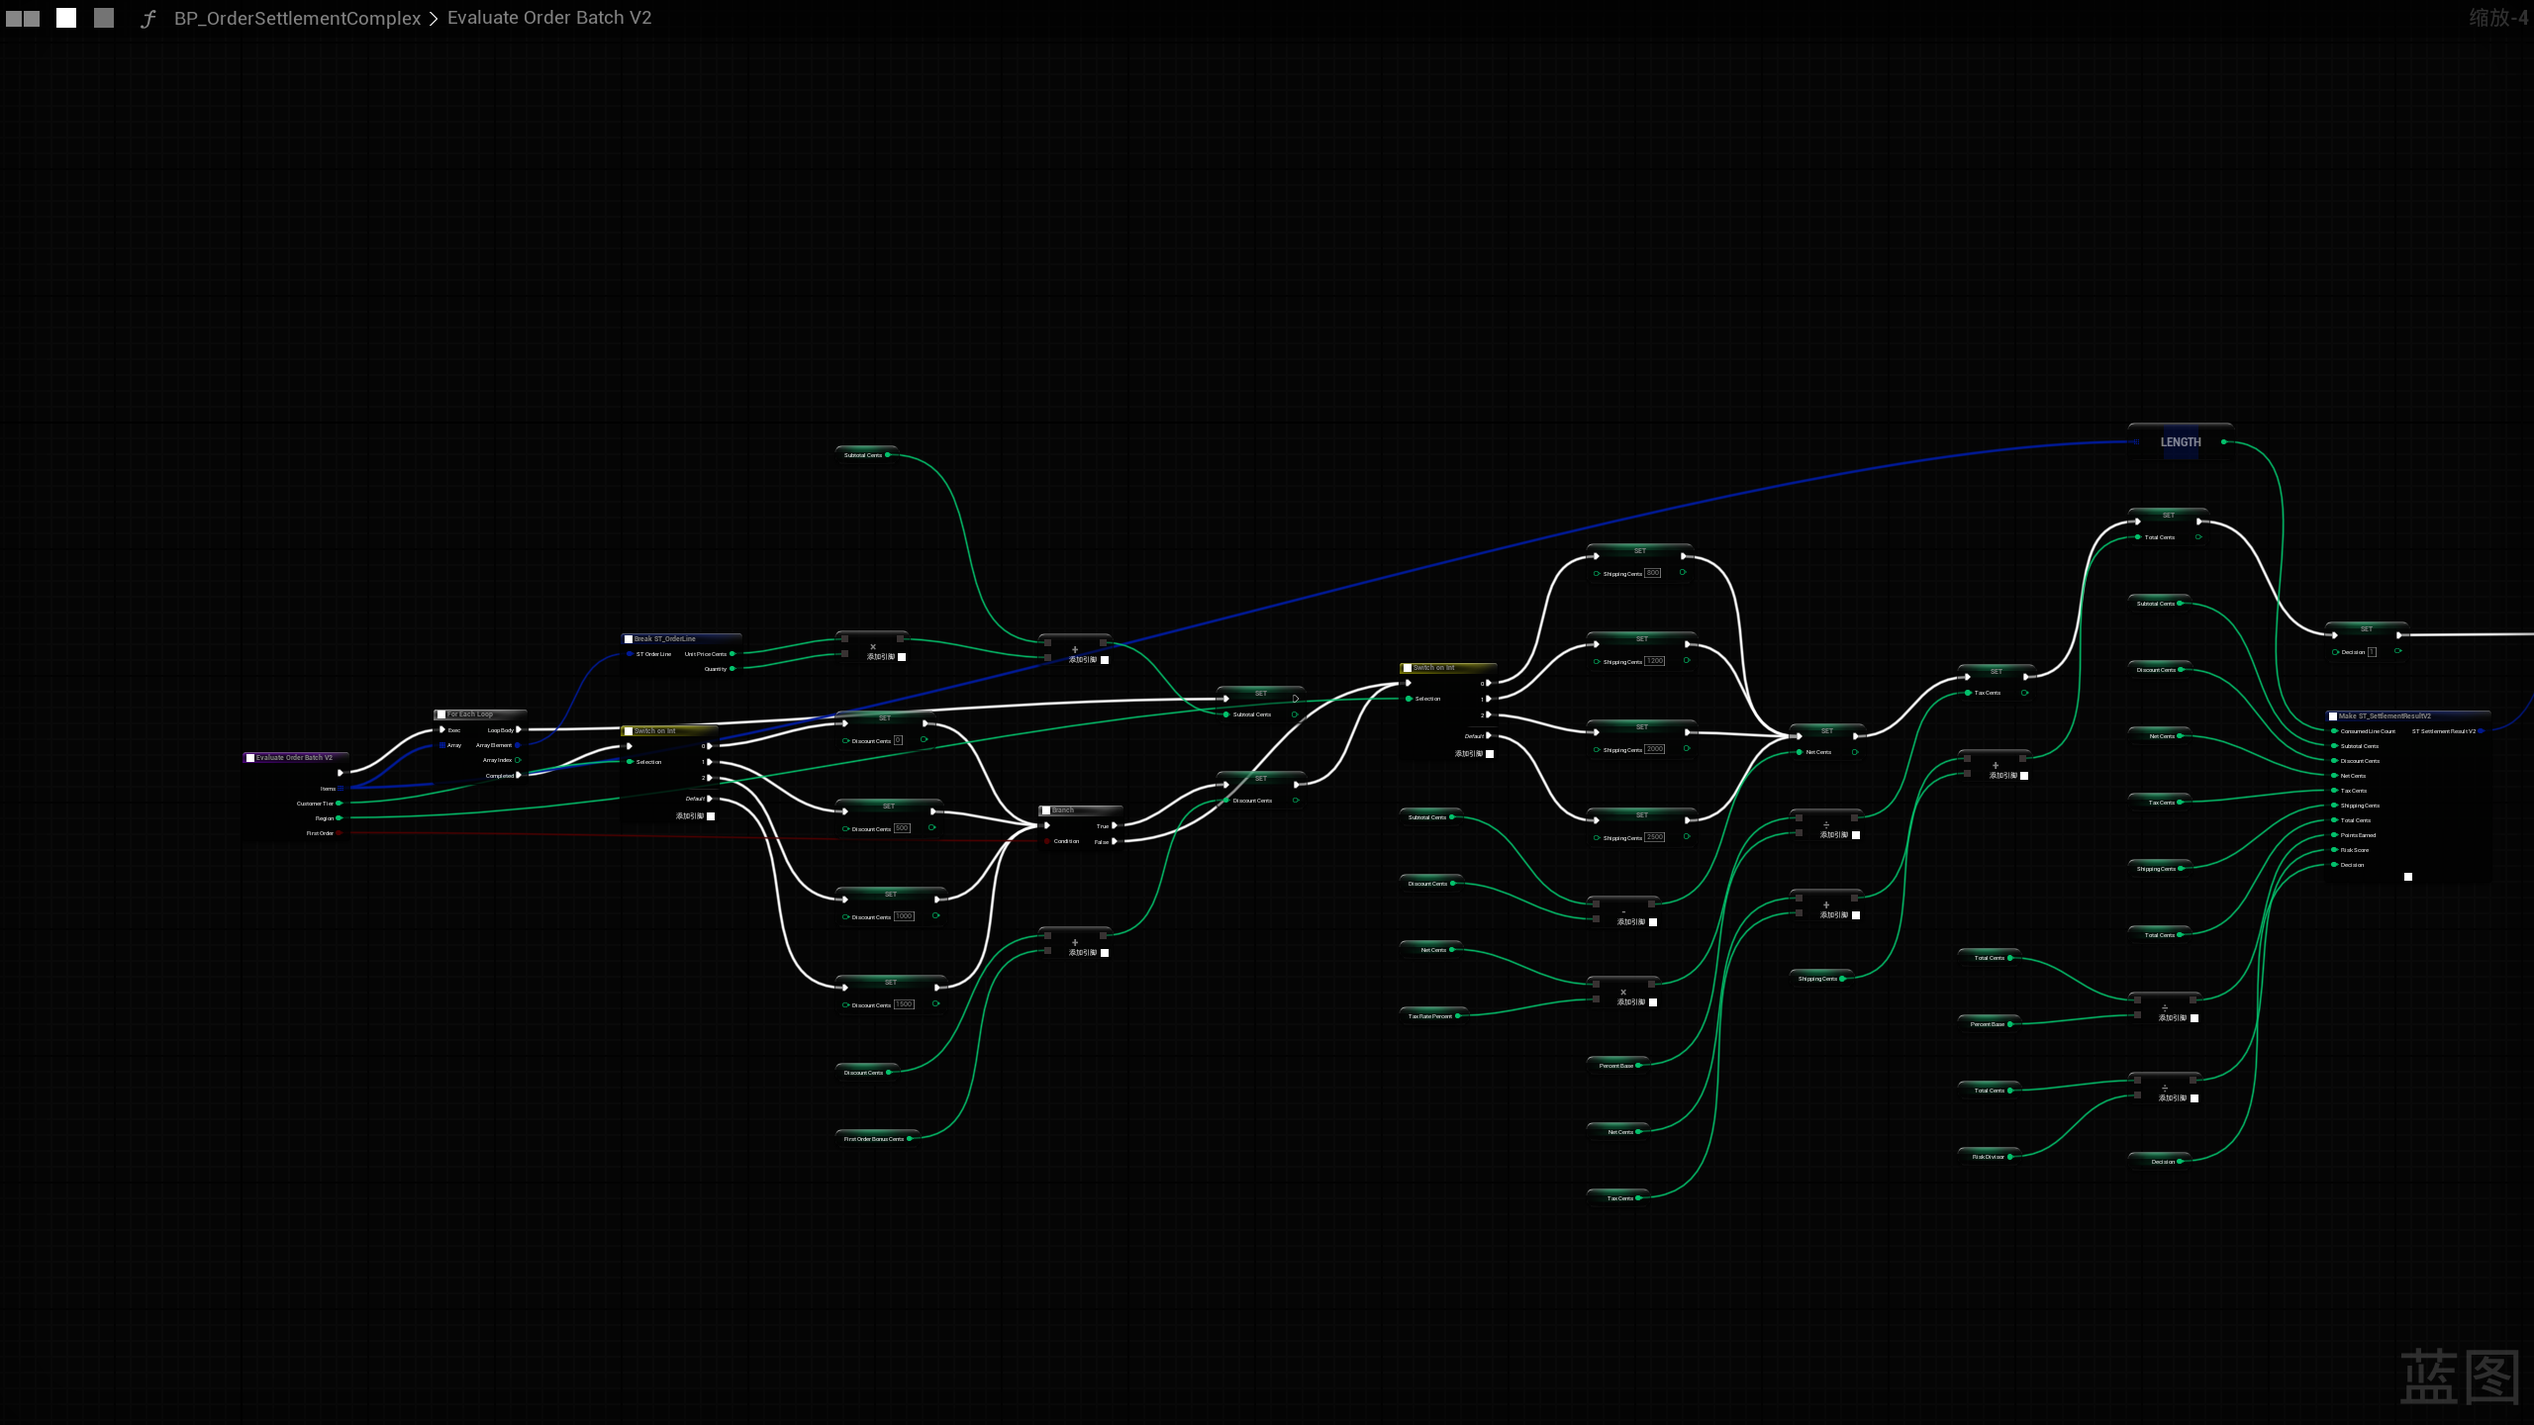
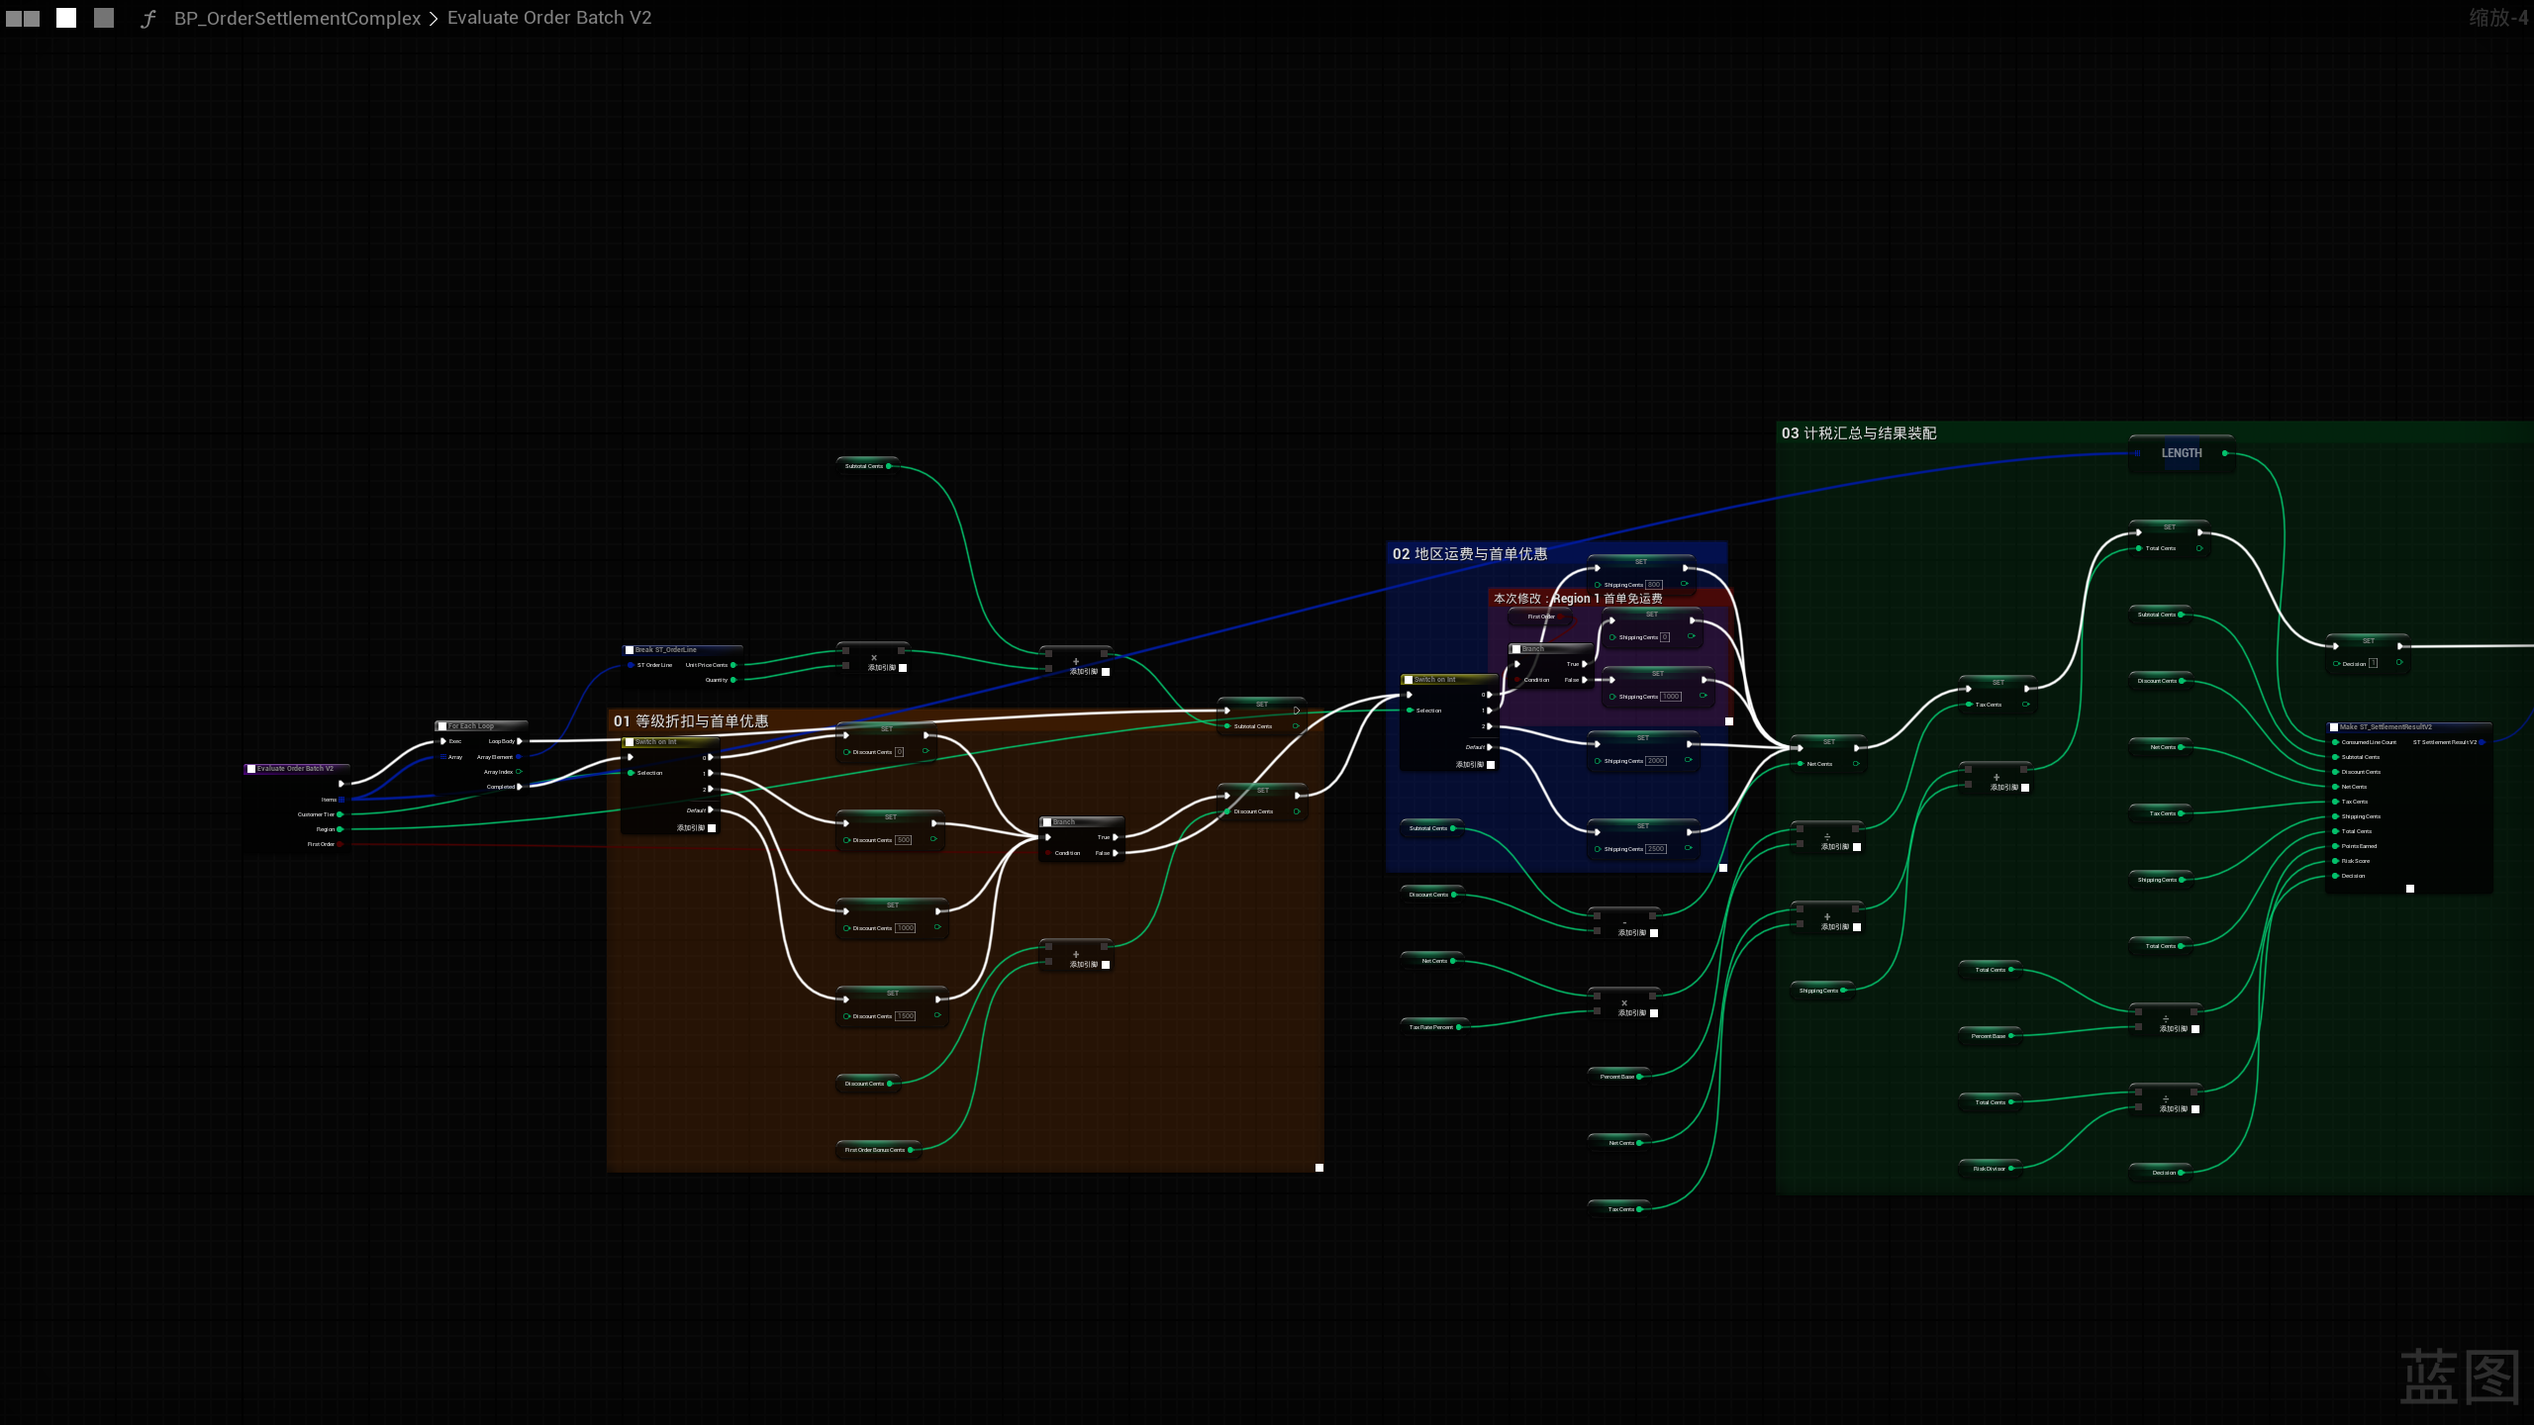
Update docs for MCPBlueprint

diff --git a/MCPBlueprint/GRAPH_WORKFLOW_ACCEPTANCE.md b/MCPBlueprint/GRAPH_WORKFLOW_ACCEPTANCE.md
@@ -2,23 +2,24 @@
 
 本文是 MCPBlueprint 图编辑、自动布局和截图验证的权威交接规范。它用于防止把“节点很多、没有重叠、能够编译”误判为“真实业务逻辑可运行”。下次任务必须先阅读本文，再设计测试资产或生成验收截图。
 
-## 0. 2026-08-24 后续验证
+## 0. 2026-08-24 至 2026-08-25 后续验证
 
 - 新增隔离资产 `/Game/MCPBP_AutoTest/BusinessWorkflow/OrderSettlement/BP_OrderSettlementComplex`，未修改原基线资产。
-- `EvaluateOrderBatchV2` 已扩展为 55 节点、68 条边、单一连通组件的订单策略流；覆盖订单循环、等级与地区 Switch、首单 Branch、折扣、运费、净额、税、总额、积分、风险和决策。
+- `EvaluateOrderBatchV2` 已扩展为 58 节点、72 条边、单一连通组件的订单策略流；覆盖订单循环、等级与地区 Switch、首单折扣 Branch、Region 1 首单免运费 Branch、折扣、运费、净额、税、总额、积分、风险和决策。
 - 用户否决了交叉线仍为 26 的首版截图，因此该结果不再视为通过。布局器随后在不拆函数、不改 ABI/拓扑的前提下加入语义稳定排序、真实几何候选、确定性多起点、有界全局交换和整层 Y 偏移搜索。
 - 对上一版保存布局执行 `FormatGraph(WholeGraph, Straight)` 的最终真实读回为交叉线 `26 → 11`、`OverlapCount=0`、`BackwardEdgeCount=0`、平均 Pin 高差 `236 → 212`；保存、关闭、重开后的截图与再次编译均通过。GUID 重映射同构图保持相同指标，布局自动化 17/17 通过。
-- `MCPBlueprint.BusinessWorkflow.OrderSettlementComplexPolicy` 通过三组固定输入的真实 `ProcessEvent` 调用，机器证据为 `bExpectedOutput=true`、`bPackagesCleanBefore=true`、`bPackagesCleanAfter=true`。
-- 本单元证明 55 节点复杂业务示例可运行并可截图验收；它没有通过复制装饰逻辑追求 100+ 节点，因此不把本结果表述成“100+ 节点压力目标已完成”。以下旧失败结论继续作为反例与验收边界保留。
+- `MCPBlueprint.BusinessWorkflow.OrderSettlementComplexPolicy` 通过四组固定输入的真实 `ProcessEvent` 调用，机器证据为 `bExpectedOutput=true`、`bPackagesCleanBefore=true`、`bPackagesCleanAfter=true`。
+- 已完成真实局部结构逻辑 Before/After：将 `RegionSwitch.Case1 → Set ShippingCents(1000)` 直连改为 `Case1 → bFirstOrder Branch → 0/1000 两条 Set 路径 → Set NetCents`。首单用例的 `ShippingCents 1000 → 0`、`TotalCents 32590 → 31590`、`PointsEarned 325 → 315`；新增非首单镜像用例确认 False 路径仍为 `1000 / 33400 / 334`。两图均为 2560×1440、1:1，并以未移动的 Region Switch 作为共同画幅锚点；After 的红色 Comment Box 只包含本次结构修改子图。
+- 本单元证明 58 节点复杂业务示例可运行并可截图验收；它没有通过复制装饰逻辑追求 100+ 节点，因此不把本结果表述成“100+ 节点压力目标已完成”。以下旧失败结论继续作为反例与验收边界保留。
 
-## 1. 当前结论（2026-08-14）
+## 1. 历史失败结论（2026-08-14，已被第 0 节后续验证取代）
 
 - 源码基线：`main` / `461f514f6a3e79a9d5ecd3a0d18abb1d2cc96e1b`。
 - 消费者局部 Getter 防重叠的实现级验证已通过：自动化覆盖候选位置耗尽与事务回滚；真实 MCP 读回证明 Getter 位于消费者附近，且保存、关闭、重开后位置和连接保持。
 - 产品级“真实业务函数”截图验收**未通过**。用户明确拒绝了现有长函数截图，因为节点虽多，但有效业务连接不足，不像能够实际运行的项目函数。
 - 现有 GetterSafety `01–05` 和 102/108 节点 LayoutShift 图片只能作为布局、回滚或持久化的过程证据，不能作为真实业务验收证据。
 - 曾用于替代验收的 112/114 节点场景，即使满足零孤立节点、编译、保存重开和 Undo/Redo，也没有完成固定输入下的实际调用与输出验证，因此不得宣称已通过产品验收。
-- MCPBlueprint 项目当前状态为 `paused`。本轮只完善文档，不启动编辑器、不修改代码/资产、不制作新截图。
+- 当时 MCPBlueprint 项目状态为 `paused`；该轮只完善文档，没有启动编辑器、修改代码/资产或制作新截图。此状态不代表第 0 节后续验证后的当前状态。
 
 ## 2. 此前验证方向为什么不成立
 
@@ -119,22 +120,21 @@ Compile 是运行验证的前置条件，不是终点。每个修改阶段都必
 - 截图文字不可读、只显示线，或修改前后不是可比较画幅。
 - 在人工构造的布局压力图上证明局部改善后，将其表述成真实项目验收。
 
-## 9. 下次新任务交接
+## 9. 当前后续任务交接（2026-08-25）
 
 - 权威仓库：`E:/GitHub/MZSH-UEPlugins/MCP/MCPBlueprint`。
-- 起始基线：先实时核对 `main`、`origin/main` 和工作区；本记录生成时为 `461f514f6a3e79a9d5ecd3a0d18abb1d2cc96e1b`。
-- AIHub 项目状态：`paused`。新任务获得用户明确授权后再设为 `active`。
+- 起始前必须实时核对 `main`、`origin/main` 和工作区；本节不固定会随提交立即过期的 SHA。AIHub 状态同样必须实时读取，不沿用第 1 节的历史 `paused`。
+- 当前复杂业务基线：`/Game/MCPBP_AutoTest/BusinessWorkflow/OrderSettlement/BP_OrderSettlementComplex`，`EvaluateOrderBatchV2` 为 58 节点的单一连通长函数，没有拆分辅助函数。
+- 当前 Region 1 规则为首单 `ShippingCents=0`、非首单 `ShippingCents=1000`；首单固定用例输出为 `TotalCents=31590`、`PointsEarned=315`。
 - 不复用 `/Game/MCPBP_AutoTest/LayoutShift/BP_MCPBP_LayoutShift_100Nodes` 作为验收基线；它只属于旧的压力测试方向。
 - 新建隔离测试资产，不修改或保存用户业务项目 `E:/SVN/BenCaoYuan` 及其中任何业务资产。
-- 第一个里程碑不是搭图，而是提交业务故事、测试用例和预期修改点供用户审核。
-- 用户确认场景后再搭建完整可运行基线；基线实际执行成功并截图后，才允许开始修改。
-- 每次只改一个逻辑点，每次修改都必须有同画幅截图、读回、编译和运行结果。
+- 后续每次只改一个真实局部业务逻辑点；修改前先运行固定用例并拍同画幅基线，修改后必须完成 Pin/连线读回、编译、显式保存、关闭重开、同画幅截图和运行输出核对。Comment Box 只包围本次实际变化节点。
 - 加减乘除节点必须走 `SearchGraphNodes(Add/Subtract/Multiply/Divide) -> ApplyGraphPatch -> Readback -> Compile` 的合法路径，并覆盖 UE 5.7 Real/Double 显示与类型提升；不得伪造 SpawnerId。
 
 ## 10. Definition of Done
 
 - [ ] 用户已确认业务故事、输入输出、修改点和至少 3 个确定性用例。
-- [ ] 100+ 节点来自真实业务复杂度，不是数量填充。
+- [ ] 节点规模来自真实业务复杂度，不以 100+ 为硬门槛，也不复制装饰逻辑填充数量。
 - [ ] Exec 可达性、终止路径和 pure-node 贡献检查全部通过。
 - [ ] 修改前基线已编译、实际调用、结果核对、保存重开。
 - [ ] 每个原子修改均先审阅完整 Patch 和当前图详情，再原子应用、读回、编译、实际调用；未伪造 patch 级 dry-run。

diff --git a/MCPBlueprint/README.md b/MCPBlueprint/README.md
@@ -180,16 +180,17 @@ For this slice, `UEQuickStart.exe --test` exited with code 0, the targeted `MCPB
 
 ### Complex order-policy validation
 
-`BP_OrderSettlementComplex` is an isolated duplicate of the baseline, so the V1/V2 reference assets remain unchanged. Its `EvaluateOrderBatchV2` graph is a single connected 55-node, 68-edge long function: accumulate every order line, choose a tier discount through `Switch on Int`, apply the first-order bonus through a Branch, choose regional shipping, then calculate net, 8% integer tax, total, points, risk score, and decision. The business flow is not split into helper functions, and its ABI and graph topology remain unchanged.
+`BP_OrderSettlementComplex` is an isolated duplicate of the baseline, so the V1/V2 reference assets remain unchanged. Its `EvaluateOrderBatchV2` graph is now a single connected 58-node, 72-edge long function: accumulate every order line, choose a tier discount, apply the first-order discount, then choose regional shipping. `Region=1` enters a local Branch: first orders receive free shipping, while non-first orders retain 1000. The graph then calculates net, 8% integer tax, total, points, risk score, and decision. The long function remains intact instead of being split into helpers, and its ABI is unchanged.
 
 The long-function layout fix combines cached semantic stable keys, 12 barycentric candidates, real geometric crossing scores, bounded adjacent/global swaps, and whole-layer Y-offset search. Each layout has hard budgets of 4096 global-swap candidate evaluations and 2048 layer-offset metric evaluations. Running `FormatGraph(WholeGraph, Straight)` on the previous saved layout produces crossings `26 → 11`, `OverlapCount=0`, `BackwardEdgeCount=0`, and average pin delta `236 → 212`. A structurally identical copy with every NodeGuid regenerated produces the same metrics; all 17 graph-layout automation tests pass.
 
-The fixed order lines remain `(5000, 2)` and `(7000, 3)`. Real `ProcessEvent` execution covers three paths:
+The fixed order lines remain `(5000, 2)` and `(7000, 3)`. Real `ProcessEvent` execution covers four paths:
 
 | Case | Tier / Region / First order | Discount | Net | Tax | Shipping | Total | Points / Risk / Decision |
 |---|---|---:|---:|---:|---:|---:|---|
 | Regular order | `0 / 0 / false` | 0 | 31000 | 2480 | 800 | 34280 | `342 / 3 / 1` |
-| Tier-2 first order | `2 / 1 / true` | 1750 | 29250 | 2340 | 1200 | 32790 | `327 / 3 / 1` |
+| Tier-2 first order | `2 / 1 / true` | 1750 | 29250 | 2340 | 0 | 31590 | `315 / 3 / 1` |
+| Tier-2 regular order | `2 / 1 / false` | 1000 | 30000 | 2400 | 1000 | 33400 | `334 / 3 / 1` |
 | Default branches | `99 / 99 / false` | 1500 | 29500 | 2360 | 2500 | 34360 | `343 / 3 / 1` |
 
 `MCPBlueprint.BusinessWorkflow.OrderSettlementComplexPolicy` returns `Success` on UE 5.2; every output matches and the related packages remain clean before and after invocation. The four-test order-settlement regression passes. The asset is explicitly saved, closed, reopened, recompiled, and captured; `UEQuickStart.exe --test` also exits with code 0.
@@ -209,6 +210,21 @@ The screenshots below are the **current complex-logic acceptance baseline**. Nat
 #### Current local baseline: result assembly
 
 ![Current baseline: result assembly marked with a Comment Box after save and reopen](./Images/OrderSettlementComplex/ComplexPolicy_ReopenedResult.png)
+
+### Real local structural-logic change: free first-order shipping in Region 1
+
+Before the change, the `Region=1` Exec path entered `Set ShippingCents(1000)` directly. The modified long function locally adds `Get bFirstOrder`, a Branch, and `Set ShippingCents(0)`. Case 1 is rewired so True receives free shipping, False reuses the original `1000` node, and both paths rejoin the original downstream `Set NetCents`. All other Region cases and the tax, total, points, and decision links remain unchanged.
+
+| Path | Before Shipping / Total / Points | After Shipping / Total / Points |
+|---|---:|---:|
+| `Tier=2, Region=1, bFirstOrder=true` | `1000 / 32590 / 325` | `0 / 31590 / 315` |
+| `Tier=2, Region=1, bFirstOrder=false` | `1000 / 33400 / 334` | `1000 / 33400 / 334` |
+
+Before and After are both 2560×1440 at 1:1 zoom and use the unmoved Region Switch as their common frame anchor. In After, the native red Comment Box encloses only the new Getter, Branch, free-shipping Set, and the rewired original `1000` node. The targeted test returns `bExpectedOutput=true`, and the final four-test order-settlement regression passes 4/4.
+
+![Before the structural-logic change: Region 1 directly sets shipping to 1000](./Images/OrderSettlementLogicRewire/Region1FirstOrder_Before.png)
+
+![After the structural-logic change: Region 1 adds a first-order free-shipping Branch and new links](./Images/OrderSettlementLogicRewire/Region1FirstOrder_After.png)
 
 ## Safety and behavior boundaries
 
